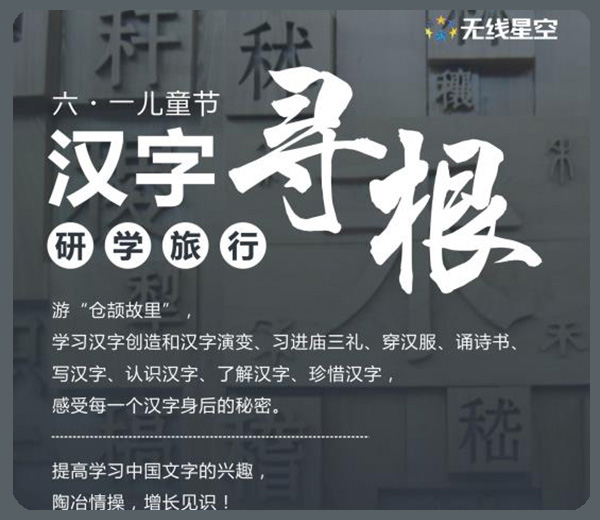
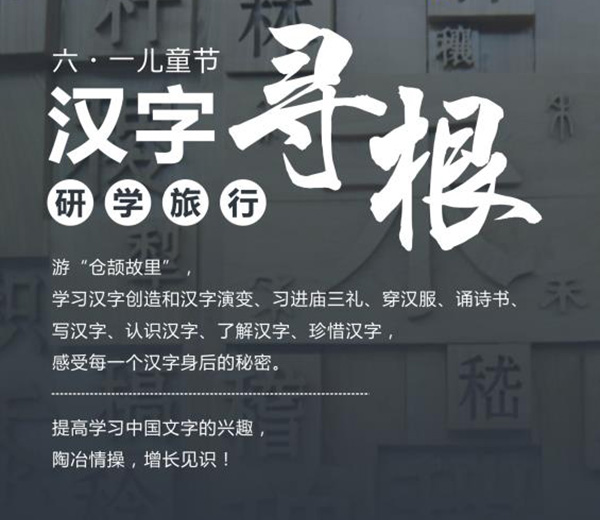
修改banner

diff --git a/css/sl-slide.css b/css/sl-slide.css
@@ -124,7 +124,8 @@
 	background: #ffa801;
 }
 .item6 .sl-slide-inner {
-	background: #576065;
+	/* background: #576065; */
+	background-image: linear-gradient(0deg,#303741 0%,#494F4F 50%,#555C62 100%);
 }
 
 .sl-slider h2 {
